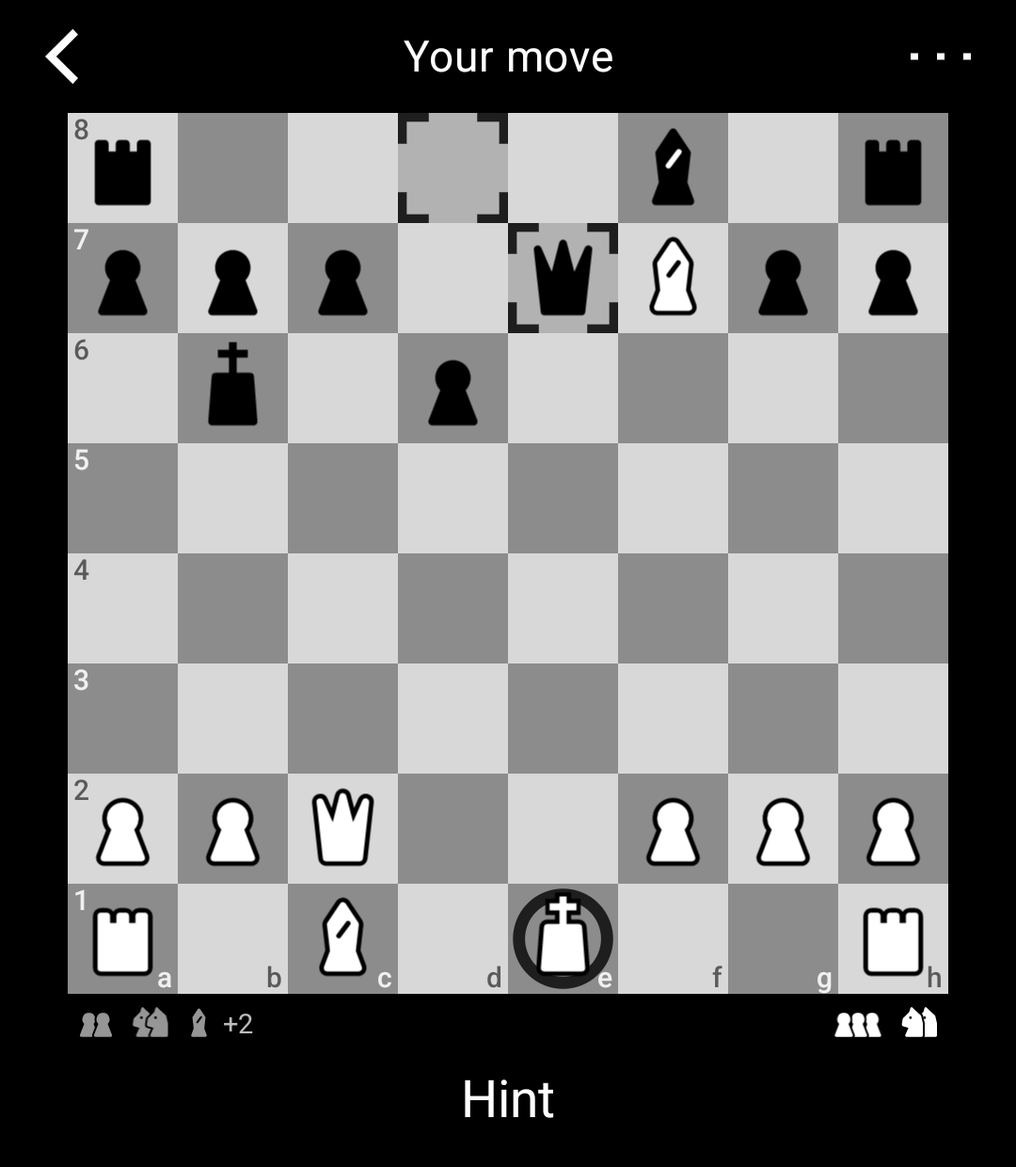
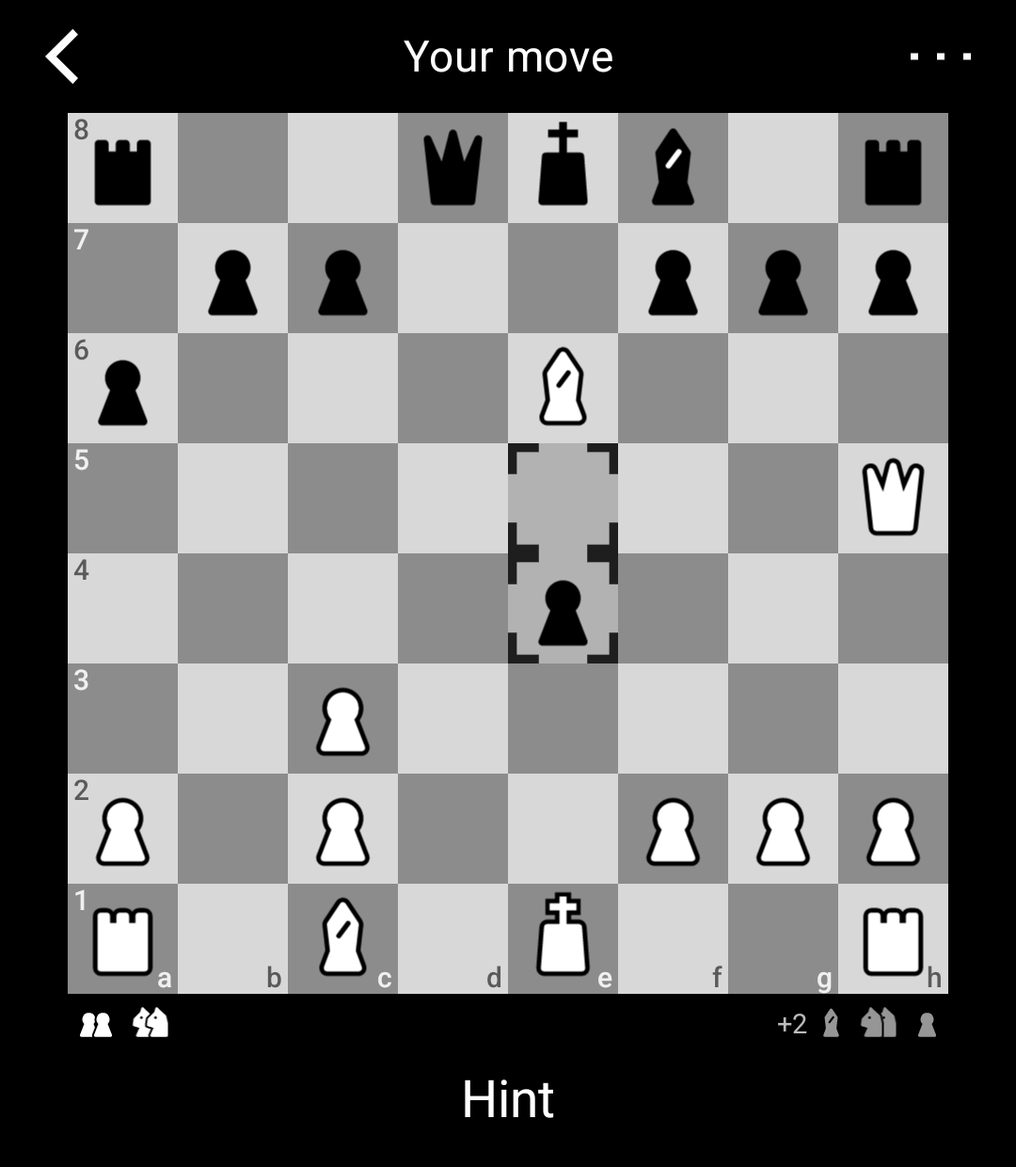
Captured Pieces: the bottom Side's end at the board's right edge (J1) (#35)
* The bottom Side's Captured Pieces at the board's right edge (J1)

The owner's decision of 2026-10-03 amends P3's ends and E12: the Side at
the bottom files in from the right edge, the top Side from the left, each
end starting with its pawns at its edge. A flip still swaps them; the lead
sits inside the leading end; fit and the crowded row are unchanged. The
accessibility label keeps the bottom Side first.

Claude-Session: https://claude.ai/code/session_01RXJY5uJ7BgHazNfAndxShE

* J1: README Game screenshot with the swapped ends; reflow capturedPieces' KDoc

Claude-Session: https://claude.ai/code/session_01RXJY5uJ7BgHazNfAndxShE

---------

diff --git a/tool/src/test/kotlin/com/yarosz/chess/CapturedRowTest.kt b/tool/src/test/kotlin/com/yarosz/chess/CapturedRowTest.kt
@@ -50,58 +50,86 @@ class CapturedRowTest {
     private val sample = captured(listOf(PAWN, PAWN, KNIGHT, QUEEN), listOf(PAWN, ROOK))
 
     @Test
-    fun theBottomSidesCapturesStartAtTheLeftEdgeAndTheOthersAtTheRight() {
+    fun theBottomSidesCapturesStartAtTheRightEdgeAndTheOthersAtTheLeft() {
+        // J1: White at the bottom; its captures (Black's pieces) at the right, Black's at the left.
         val row = place(sample, Side.WHITE)
         val s = CapturedRowLayout.SAME_STEP
         val k = CapturedRowLayout.KIND_STEP
         val right = board - CapturedRowLayout.SIZE
         assertEquals(
             listOf(
-                // Left, from the edge inwards: pawns outermost, grouped by kind, each kind fanned.
-                Placed(Piece.BLACK_PAWN, 0f), Placed(Piece.BLACK_PAWN, s), Placed(Piece.BLACK_KNIGHT, s + k),
-                Placed(Piece.BLACK_QUEEN, s + 2 * k),
-                // Right, from the edge inwards: the heaviest kind outermost, so it reads pawn to queen too.
-                Placed(Piece.WHITE_ROOK, right), Placed(Piece.WHITE_PAWN, right - k),
-            ),
-            row.pieces,
-        )
-        // White is ahead by 8: the lead sits just inside White's end, at the left.
-        assertEquals("+8", row.lead)
-        assertEquals(s + 2 * k + CapturedRowLayout.SIZE + CapturedRowLayout.LEAD_GAP, row.leadX)
-        assertEquals(row.leadX + leadWidth("+8"), row.leftEnd)
-        assertEquals(right - k, row.rightStart)
-    }
-
-    @Test
-    fun aFlippedBoardSwapsTheEnds() {
-        val row = place(sample, Side.BLACK)
-        val k = CapturedRowLayout.KIND_STEP
-        val s = CapturedRowLayout.SAME_STEP
-        val right = board - CapturedRowLayout.SIZE
-        assertEquals(
-            listOf(
+                // Left, from the edge inwards: pawns outermost, so it reads pawn to rook.
                 Placed(Piece.WHITE_PAWN, 0f), Placed(Piece.WHITE_ROOK, k),
-                Placed(Piece.BLACK_QUEEN, right), Placed(Piece.BLACK_KNIGHT, right - k),
-                Placed(Piece.BLACK_PAWN, right - 2 * k), Placed(Piece.BLACK_PAWN, right - 2 * k - s),
+                // Right, from the edge inwards: pawns outermost too, grouped by kind, each kind
+                // fanned, so it reads queen to pawn from left to right.
+                Placed(Piece.BLACK_PAWN, right), Placed(Piece.BLACK_PAWN, right - s),
+                Placed(Piece.BLACK_KNIGHT, right - s - k), Placed(Piece.BLACK_QUEEN, right - s - 2 * k),
             ),
             row.pieces,
         )
-        // White, now at the top, leads: "+8" just inside the right end.
-        val inner = right - 2 * k - s
+        // White, at the bottom, is ahead by 8: the lead sits just inside White's end, at the right.
+        assertEquals("+8", row.lead)
+        val inner = right - s - 2 * k
         assertEquals(inner - CapturedRowLayout.LEAD_GAP - leadWidth("+8"), row.leadX)
         assertEquals(row.leadX, row.rightStart)
         assertEquals(k + CapturedRowLayout.SIZE, row.leftEnd)
     }
 
     @Test
+    fun aFlippedBoardSwapsTheEnds() {
+        // Black at the bottom: Black's captures (White's pieces) at the right, White's at the left.
+        val row = place(sample, Side.BLACK)
+        val k = CapturedRowLayout.KIND_STEP
+        val s = CapturedRowLayout.SAME_STEP
+        val right = board - CapturedRowLayout.SIZE
+        assertEquals(
+            listOf(
+                Placed(Piece.BLACK_PAWN, 0f), Placed(Piece.BLACK_PAWN, s), Placed(Piece.BLACK_KNIGHT, s + k),
+                Placed(Piece.BLACK_QUEEN, s + 2 * k),
+                Placed(Piece.WHITE_PAWN, right), Placed(Piece.WHITE_ROOK, right - k),
+            ),
+            row.pieces,
+        )
+        // White, now at the top, leads: "+8" just inside the left end.
+        assertEquals(s + 2 * k + CapturedRowLayout.SIZE + CapturedRowLayout.LEAD_GAP, row.leadX)
+        assertEquals(row.leadX + leadWidth("+8"), row.leftEnd)
+        assertEquals(right - k, row.rightStart)
+    }
+
+    /**
+     * P3's fanned hand, the inner piece over the outer, at both ends: each end is drawn from its edge
+     * inwards, so a later drawing is always nearer the middle than an earlier one of its end.
+     */
+    @Test
+    fun eachEndIsDrawnFromItsEdgeInwards() {
+        val all = List(8) { PAWN } + List(2) { KNIGHT } + List(2) { BISHOP } + List(2) { ROOK } + QUEEN
+        for (bottom in Side.entries) {
+            val row = place(CapturedPieces(all, all, 0), bottom)
+            val left = row.pieces.filter { it.piece.side == bottom }
+            val right = row.pieces.filter { it.piece.side == bottom.opponent }
+            assertEquals(row.pieces, left + right, "the left end, then the right")
+            assertTrue(left.zipWithNext().all { (a, b) -> b.x > a.x }, "left: $left")
+            assertTrue(right.zipWithNext().all { (a, b) -> b.x < a.x }, "right: $right")
+            // Pawns at each edge, queens innermost.
+            assertEquals(PAWN, left.minBy { it.x }.piece.type)
+            assertEquals(PAWN, right.maxBy { it.x }.piece.type)
+            assertEquals(QUEEN, left.last().piece.type)
+            assertEquals(QUEEN, right.last().piece.type)
+        }
+    }
+
+    @Test
     fun noLeadWhenLevelAndALeadAtTheEdgeWhenItsSideTookNothing() {
         val level = place(captured(listOf(KNIGHT), listOf(BISHOP)), Side.WHITE)
         assertNull(level.lead)
-        // Only a promotion gives Black the lead: its "+4" stands at the right edge.
+        // Only a promotion gives Black, at the top, the lead: its "+4" stands at the left edge.
         val promoted = place(CapturedPieces(emptyList(), emptyList(), -4), Side.WHITE)
         assertEquals("+4", promoted.lead)
-        assertEquals(board - leadWidth("+4"), promoted.leadX)
+        assertEquals(0f, promoted.leadX)
         assertEquals(emptyList(), promoted.pieces)
+        // With Black at the bottom it stands at the right edge.
+        val flipped = place(CapturedPieces(emptyList(), emptyList(), -4), Side.BLACK)
+        assertEquals(board - leadWidth("+4"), flipped.leadX)
     }
 
     /**
@@ -124,7 +152,8 @@ class CapturedRowTest {
         }
         // The widest end is fifteen pieces of five kinds: well under half the board.
         val end = 10 * CapturedRowLayout.SAME_STEP + 4 * CapturedRowLayout.KIND_STEP + CapturedRowLayout.SIZE
-        assertEquals(end, place(CapturedPieces(fifteen, emptyList(), 0), Side.WHITE).leftEnd)
+        assertEquals(end, place(CapturedPieces(emptyList(), fifteen, 0), Side.WHITE).leftEnd)
+        assertEquals(board - end, place(CapturedPieces(fifteen, emptyList(), 0), Side.WHITE).rightStart)
         assertTrue(end < board / 2)
     }
 
@@ -270,7 +299,7 @@ class CapturedRowTest {
             "Captured by White: two pawns, a knight, a queen. Captured by Black: a pawn, a rook. White is ahead by 8.",
             UiCopy.capturedPieces(sample, Side.WHITE),
         )
-        // The bottom Side's end first, as the row reads.
+        // The bottom Side first (J1), though its end is now the row's right one.
         assertEquals(
             "Captured by Black: a pawn, a rook. Captured by White: two pawns, a knight, a queen. White is ahead by 8.",
             UiCopy.capturedPieces(sample, Side.BLACK),

diff --git a/tool/src/main/kotlin/com/yarosz/chess/board/CapturedRow.kt b/tool/src/main/kotlin/com/yarosz/chess/board/CapturedRow.kt
@@ -23,13 +23,14 @@ import com.yarosz.chess.rules.PieceType
 import com.yarosz.chess.rules.Side
 
 /**
- * The captured-pieces row's measures and placement (P3), in dp, pure so `CapturedRowTest` can check
- * that the widest row fits the board. The row is the top line of the action row under the board
- * (E12), across the board's full width whatever buttons are shown: at the left end the pieces the Side
- * at the bottom has taken, from the board's left edge, at the right end the other Side's, from the
- * board's right edge, each end growing inwards. Both ends read pawn, knight, bishop, rook, queen from
- * left to right, so the left end has its pawns at the edge and the right end its queens. Pieces of one kind
- * overlap like a fanned hand; the Material Lead ("+7") sits just inside the leading Side's end.
+ * The captured-pieces row's measures and placement (P3, J1), in dp, pure so `CapturedRowTest` can
+ * check that the widest row fits the board. The row is the top line of the action row under the board
+ * (E12), across the board's full width whatever buttons are shown: at the right end the pieces the
+ * Side at the bottom has taken, from the board's right edge, at the left end the other Side's, from
+ * the board's left edge (J1), each end growing inwards. Each end starts at its edge with its pawns,
+ * then knights, bishops, rooks and queens going inwards, so the left end reads pawn to queen from left
+ * to right and the right end queen to pawn. Pieces of one kind overlap like a fanned hand, the inner
+ * piece over the outer; the Material Lead ("+7") sits just inside the leading Side's end.
  */
 object CapturedRowLayout {
     /**
@@ -117,24 +118,24 @@ object CapturedRowLayout {
         val kindStep = KIND_STEP * steps
         val pieces = mutableListOf<Placed>()
         val top = bottom.opponent
-        // Left end: what the bottom Side took (the top Side's pieces), from the left edge inwards.
+        // Left end (J1): what the top Side took (the bottom Side's pieces), from the left edge inwards,
+        // pawns outermost. Drawn in that order, so the inner piece is painted over the outer.
         var x = 0f
         var leftEnd = 0f
-        val leftKinds = CapturedPieces.ORDER.map { kind -> kind to captured.by(bottom).count { it == kind } }.filter { it.second > 0 }
-        for ((kind, n) in leftKinds) {
+        for ((kind, n) in kinds(captured.by(top))) {
             repeat(n) { i ->
-                pieces += Placed(Piece.of(top, kind), x)
+                pieces += Placed(Piece.of(bottom, kind), x)
                 leftEnd = x + SIZE
                 x += if (i < n - 1) sameStep else kindStep
             }
         }
-        // Right end: what the top Side took, from the right edge inwards, queens outermost.
+        // Right end: what the bottom Side took (the top Side's pieces), from the right edge inwards,
+        // pawns outermost likewise, so it reads queen to pawn from left to right.
         x = width - SIZE
         var rightStart = width
-        val rightKinds = CapturedPieces.ORDER.reversed().map { kind -> kind to captured.by(top).count { it == kind } }.filter { it.second > 0 }
-        for ((kind, n) in rightKinds) {
+        for ((kind, n) in kinds(captured.by(bottom))) {
             repeat(n) { i ->
-                pieces += Placed(Piece.of(bottom, kind), x)
+                pieces += Placed(Piece.of(top, kind), x)
                 rightStart = x
                 x -= if (i < n - 1) sameStep else kindStep
             }
@@ -144,16 +145,20 @@ object CapturedRowLayout {
         if (lead != null) {
             val w = textWidth(lead)
             if (captured.leader == bottom) {
-                leadX = if (leftEnd > 0f) leftEnd + LEAD_GAP else 0f
-                leftEnd = leadX + w
-            } else {
                 val right = if (rightStart < width) rightStart - LEAD_GAP else width
                 leadX = right - w
                 rightStart = leadX
+            } else {
+                leadX = if (leftEnd > 0f) leftEnd + LEAD_GAP else 0f
+                leftEnd = leadX + w
             }
         }
         return Row(pieces, lead, leadX, leftEnd, rightStart, steps)
     }
+
+    /** [taken]'s kinds that are there, pawns first, each with how many. */
+    private fun kinds(taken: List<PieceType>) =
+        CapturedPieces.ORDER.map { kind -> kind to taken.count { it == kind } }.filter { it.second > 0 }
 }
 
 /**

diff --git a/tool/src/test/kotlin/com/yarosz/chess/StripFitTest.kt b/tool/src/test/kotlin/com/yarosz/chess/StripFitTest.kt
@@ -704,8 +704,8 @@ class StripFitTest {
     }
 
     /**
-     * E12: the Captured Pieces run across the board's full width, the bottom Side's end from its left
-     * edge and the other's from its right edge. The crowded rows (fifteen a Side, a lead of 103 either
+     * E12, J1: the Captured Pieces run across the board's full width, the bottom Side's end from its
+     * right edge and the other's from its left edge. The crowded rows (fifteen a Side, a lead of 103 either
      * way) keep P3's own steps there, with every piece drawn and the ends apart: `fit` never has to
      * tighten on the LP3, and stays for anything wider.
      */
@@ -719,16 +719,16 @@ class StripFitTest {
             assertEquals(30, row.pieces.size, "every piece is drawn")
             assertTrue(row.pieces.all { it.x >= 0f && it.x + CapturedRowLayout.SIZE <= board }, "inside the board: $row")
             assertTrue(row.leftEnd + CapturedRowLayout.MIN_GAP <= row.rightStart, "ends apart: $row")
-            // The bottom Side's end starts at the board's left edge (the top Side's pieces, which it
-            // took), the top Side's end ends at its right edge.
-            val left = row.pieces.filter { it.piece.side == bottom.opponent }
-            val right = row.pieces.filter { it.piece.side == bottom }
+            // J1: the bottom Side's end (the top Side's pieces, which it took) ends at the board's
+            // right edge, the top Side's end starts at its left edge.
+            val left = row.pieces.filter { it.piece.side == bottom }
+            val right = row.pieces.filter { it.piece.side == bottom.opponent }
             assertEquals(0f, left.minOf { it.x })
             assertEquals(board, right.maxOf { it.x } + CapturedRowLayout.SIZE)
             // The lead, after the leading Side's end.
             when {
                 lead == 0 -> assertEquals(null, row.lead)
-                (lead > 0) == (bottom == Side.WHITE) -> assertEquals(left.maxOf { it.x } + CapturedRowLayout.SIZE + CapturedRowLayout.LEAD_GAP, row.leadX)
+                (lead > 0) != (bottom == Side.WHITE) -> assertEquals(left.maxOf { it.x } + CapturedRowLayout.SIZE + CapturedRowLayout.LEAD_GAP, row.leadX)
                 else -> assertEquals(right.minOf { it.x } - CapturedRowLayout.LEAD_GAP, row.leadX + leadWidth(row.lead!!))
             }
         }

diff --git a/tool/src/main/kotlin/com/yarosz/chess/board/BoardBars.kt b/tool/src/main/kotlin/com/yarosz/chess/board/BoardBars.kt
@@ -98,7 +98,7 @@ object BarLayout {
 
     fun titleMaxWidth(screenWidth: Dp): Dp = unit(screenWidth) * TITLE_MAX_WIDTH_UNITS
 
-    /** The board's left edge, where the bottom Side's Captured Pieces start (P3, E12). */
+    /** The board's left edge, where the top Side's Captured Pieces start (P3, E12, J1). */
     fun boardSide(screenWidth: Dp): Dp = (screenWidth - POSITION_VIEW_SIZE) / 2
 
     /**
@@ -180,7 +180,7 @@ private class MenuMarkPainter(private val color: Color, private val inset: Dp) :
 /**
  * E12-E14: the row under the board. On a Game's board ([captured] set), the Captured Pieces' line at its
  * top ([BarLayout.PIECES_LINE]): the drawings 3 dp under the board, the bottom Side's end from the
- * board's left edge and the other's from its right edge, placed across the board's width
+ * board's right edge and the other's from its left edge (J1), placed across the board's width
  * ([CapturedRowLayout.fit]) whatever the buttons. Below them, this moment's [buttons] (at most three,
  * contradiction 2) in LightOS `Copy`, centred as a group, each a target the row's full height, their
  * ink centred between the drawings' ink and the row's bottom ([BarLayout.buttonLine]). On the Puzzle

diff --git a/tool/src/main/kotlin/com/yarosz/chess/UiCopy.kt b/tool/src/main/kotlin/com/yarosz/chess/UiCopy.kt
@@ -384,9 +384,10 @@ object UiCopy {
     fun puzzleLines(id: String) = listOf("Puzzle $id", "lichess.org/training/$id")
 
     /**
-     * The captured-pieces row's accessibility label (P3), in the row's order, the Side at the
-     * [bottom] first: "Captured by White: two pawns, a queen. Captured by Black: a knight. White is
-     * ahead by 7." A Side that has taken nothing is left out; "Material is even." when neither leads.
+     * The captured-pieces row's accessibility label (P3), the Side at the [bottom] first (J1: the
+     * row's right end, the user's captures as a rule): "Captured by White: two pawns, a queen.
+     * Captured by Black: a knight. White is ahead by 7." A Side that has taken nothing is left out;
+     * "Material is even." when neither leads.
      */
     fun capturedPieces(captured: CapturedPieces, bottom: Side): String {
         val sentences = mutableListOf<String>()

diff --git a/docs/design/decision-log.md b/docs/design/decision-log.md
@@ -1138,7 +1138,8 @@ feat/v3; main's M4 above (a v2 review fix) reached main first, so they are M5 an
     its pawns at the edge and the right end its queens. Pieces of one kind overlap like a fanned hand,
     the inner piece over the outer. Every captured piece is drawn; nothing is summarised, and the row
     never wraps (`CapturedRowTest` proves the widest row, fifteen pieces at each end with a +103
-    Material Lead, keeps its two ends apart).
+    Material Lead, keeps its two ends apart). (AMENDED by J1: the bottom Side's end is at the right,
+    the top Side's at the left, each starting at its edge with its pawns; a flip still swaps them.)
   - Sizes (`CapturedRowLayout`), from the mock-up's 52, 17 and 50 px at 3 px per dp: drawings 17 dp,
     5.5 dp from one piece to the next of its kind, 16.5 dp to the next kind, 3 dp below the board.
     (AMENDED by E13: drawings 15 dp, steps 5 and 14.5 dp, the mock-up's proportions; 3 dp holds.)
@@ -1459,7 +1460,8 @@ place) are gone from the code; the strip is the invite page's and the Play a fri
   dp. RULING: on a Game's board the Captured Pieces are the action row's top line: their drawings 3
   dp under the board's bottom edge (P3's original placement), across the board's full 312 dp. The
   bottom Side's end files in from the board's left edge, the top Side's from its right edge, and the
-  Material Lead sits after the leading Side's end, as P3 has it. The two ends tighten by `fit`'s one
+  Material Lead sits after the leading Side's end, as P3 has it (AMENDED by J1: the bottom Side's
+  end from the right edge, the top Side's from the left). The two ends tighten by `fit`'s one
   factor only when they would meet across the full width: fifteen a Side with a lead of 103 either
   way keep P3's steps there, with every piece drawn and the ends apart, so on the LP3 `fit` never
   acts; it stays for the extreme cases (a narrower board). The row no longer depends on the buttons,
@@ -1515,7 +1517,7 @@ place) are gone from the code; the strip is the invite page's and the Play a fri
   the ink; the Puzzle board's ink is centred in the whole row), `theCapturedPiecesRunFromEachEdgeOfTheBoard`
   (fifteen a Side, lead -103, 0 and 103, both Sides at the bottom: P3's steps, every piece inside the
   board, the bottom Side's end at the left edge, the top Side's at the right, the lead after the
-  leading end). They replace `theCapturedPiecesShareTheActionRow`,
+  leading end; J1 swaps the edges). They replace `theCapturedPiecesShareTheActionRow`,
   `theCapturedPiecesStayStillAsTheButtonsChange` and `everyBoardButtonIsInItsBoardsButtonSets`.
   That the Captured Pieces stay still as the buttons change is by construction (`CapturedRow` takes
   no buttons), and no unit test sees it. Nor does one see each button's full-height target: it is by
@@ -1858,3 +1860,35 @@ consistent with the log.
     automatic draw, resign, agreed draw, the user's own mate and stalemate, a Game not the newest),
     `GameStoreTest` (the round trip through the file), `GameOwnerTest` (the owner's Games page),
     `MenuTest` (the Result's Menu and action row), `StripFitTest` ("Takeback · Next" fits).
+
+## Captured Pieces: the ends swapped (owner, 2026-10-03)
+- J1 The bottom Side's end at the right. AMENDS P3's ends ("at the left end the pieces the Side at
+  the bottom of the board has taken ... both ends read pawn ... queen from left to right") and E12's
+  ("the bottom Side's end files in from the board's left edge"). RULING: the Captured Pieces the
+  Side at the bottom of the board has taken (the user's, as a rule) file in from the board's RIGHT
+  edge, the top Side's from its LEFT edge. The row still follows the board as drawn: a flipped board
+  swaps the two ends, as P3 has it. Each end starts at its own edge with its pawns, then knights,
+  bishops, rooks and queens going inwards, so the left end reads pawn to queen from left to right
+  (as P3's left end did) and the right end queen to pawn, its pawns at the right edge (P3's right
+  end mirrored). The fanned hand keeps "the inner piece over the outer" at both ends: each end is
+  drawn from its edge inwards (`CapturedRowLayout.place`), so a later drawing lies nearer the
+  middle. The Material Lead stays just inside the leading Side's end: at the right when the bottom
+  Side leads. Sizes, steps, `fit`'s one factor and the crowded row (fifteen a Side, a lead of 103
+  either way, ends apart at P3's steps) are unchanged; each end's geometry is the old one mirrored.
+  - Accessibility (orchestrator's choice): the label keeps naming Sides and keeps the bottom Side
+    first, "Captured by White: ... Captured by Black: ..." with White at the bottom, though its end
+    is now the row's right one. The meaning is unchanged (the user's captures first); a screen
+    reader reads the label, not the row's left-to-right order. Rejected: reading the left end
+    first, which would put the opponent's captures first only because of where they are drawn.
+  - Why: the owner reviewed mocks of both placements, a Lichess-style net difference, and the
+    flipped and Black-at-the-bottom cases (2026-10-03). chess.com and Lichess show each player's
+    captures beside that player's name and move them on a flip; over-the-board custom (no FIDE or
+    US Chess rule covers it) keeps captured pieces beside the player who took them; nothing
+    documented says where strong players put them. Left against right is the owner's preference.
+  - Tests: `CapturedRowTest.theBottomSidesCapturesStartAtTheRightEdgeAndTheOthersAtTheLeft`
+    (replaces `theBottomSidesCapturesStartAtTheLeftEdgeAndTheOthersAtTheRight`),
+    `aFlippedBoardSwapsTheEnds`, `eachEndIsDrawnFromItsEdgeInwards` (new: pawns at each edge,
+    queens innermost, each end drawn from its edge inwards, both Sides at the bottom),
+    `noLeadWhenLevelAndALeadAtTheEdgeWhenItsSideTookNothing` (the lead at the left or the right
+    edge by Side), `theWidestRowFitsTheBoardWithoutItsEndsMeeting`;
+    `StripFitTest.theCapturedPiecesRunFromEachEdgeOfTheBoard` with the edges swapped.

diff --git a/DESIGN.md b/DESIGN.md
@@ -76,8 +76,8 @@ to bottom (decision log "Layout E"):
   no arrow, mark or status. On a Game's board it has two lines:
   - The Captured Pieces' line (E12, P3), 18 dp: the drawings 3 dp under the board's bottom edge, 15 dp
     tall (`BarLayout.PIECES_LINE`), across the board's full width. The bottom Side's end files in
-    from the board's left edge, the top Side's from its right edge. It depends on nothing but the
-    captures and the Ply shown, so it moves only when a piece is taken or Review steps.
+    from the board's right edge, the top Side's from its left edge (J1). It depends on nothing but
+    the captures and the Ply shown, so it moves only when a piece is taken or Review steps.
   - The buttons' line (E13), under it: this moment's buttons (the tables below), in `Copy`, centred
     as a group on the screen, each target the row's full height (the pieces take no touches). The
     labels' ink, 0.964 em (19.45 dp `Copy`: its tallest letter 0.75 em above the baseline, a
@@ -97,7 +97,7 @@ a friend list keep LightOS's top bar and the strip at their foot ("The strip" be
 The Side at the bottom is a parameter of the board view (`PositionView(bottom = ...)`). The puzzle
 flow puts the side to move after the setup Move at the bottom (A5). The game screen puts the user's
 Side at the bottom; "Flip board" in the Menu turns it (D10, v2), and the flip is kept in `games.json`.
-The Captured Pieces row stays aligned with the board's left edge.
+The Captured Pieces row follows the board as drawn: a flip swaps its two ends (P3, J1).
 
 ## Palette (D10)
 
@@ -423,13 +423,16 @@ Ply on screen, en passant included, a promoted pawn taken later as the piece it 
 draws them and `CapturedRowTest` checks the layout:
 
 - One row, the action row's top line (E12): the drawings 3 dp under the board, across its full 312
-  dp. Left end: what the Side at the bottom has taken, from the board's left edge; right end: the
-  other Side's, from the board's right edge; both reading pawn, knight, bishop, rook, queen from
-  left to right (pawns at the left edge, queens at the right). One kind fans out, 5 dp a piece; the
-  next kind starts 14.5 dp on; drawings are 15 dp (E13: the mock-up's proportions, 52, 17 and 50 px,
-  at 45 px). The widest row (fifteen a side, "+103") fits the board's width with P3's steps and its
-  ends apart; `CapturedRowLayout.fit` stays for anything wider (one factor on every step until the
-  ends are 4 dp apart, so every piece is still drawn), and never acts on the LP3.
+  dp. Right end: what the Side at the bottom (the user, as a rule) has taken, from the board's right
+  edge; left end: the other Side's, from the board's left edge (J1, amending P3 and E12). Each end
+  starts at its edge with its pawns, then knights, bishops, rooks and queens going inwards: the left
+  end reads pawn to queen from left to right, the right end queen to pawn. One kind fans out, 5 dp
+  a piece; the next kind starts 14.5 dp on; drawings are 15 dp (E13: the mock-up's proportions, 52,
+  17 and 50 px, at 45 px). The widest row (fifteen a side, "+103") fits the board's width with
+  P3's steps and its ends apart; `CapturedRowLayout.fit` stays for anything wider (one factor on
+  every step until the ends are 4 dp apart, so every piece is still drawn), and never acts on the
+  LP3. Each end is drawn from its edge inwards, so in a fanned kind the inner piece lies over the
+  outer at both ends.
 - The row doesn't depend on the buttons (E12, superseding E6's room): it is placed at the board's
   width whatever is shown, and the buttons have their own line below it.
 - The Material Lead, "+7", in Superfine and the secondary content colour just inside the leading
@@ -441,7 +444,8 @@ draws them and `CapturedRowTest` checks the layout:
   strip, with the text lowered below it, was superseded by E4; E4's and E6's place beside the
   buttons by E12.)
 - Its label: "Captured by White: two pawns, a queen. Captured by Black: a knight. White is ahead by
-  7.", the bottom Side first; "Material is even." when neither leads.
+  7.", the bottom Side first (its end is the right one since J1); "Material is even." when
+  neither leads.
 
 Every game status holds one line of the top bar's title in the stand-in, Results included (E3).
 R4.16 set the copy when the status shared D's strip with the buttons: in Akkurat, "Your move"
